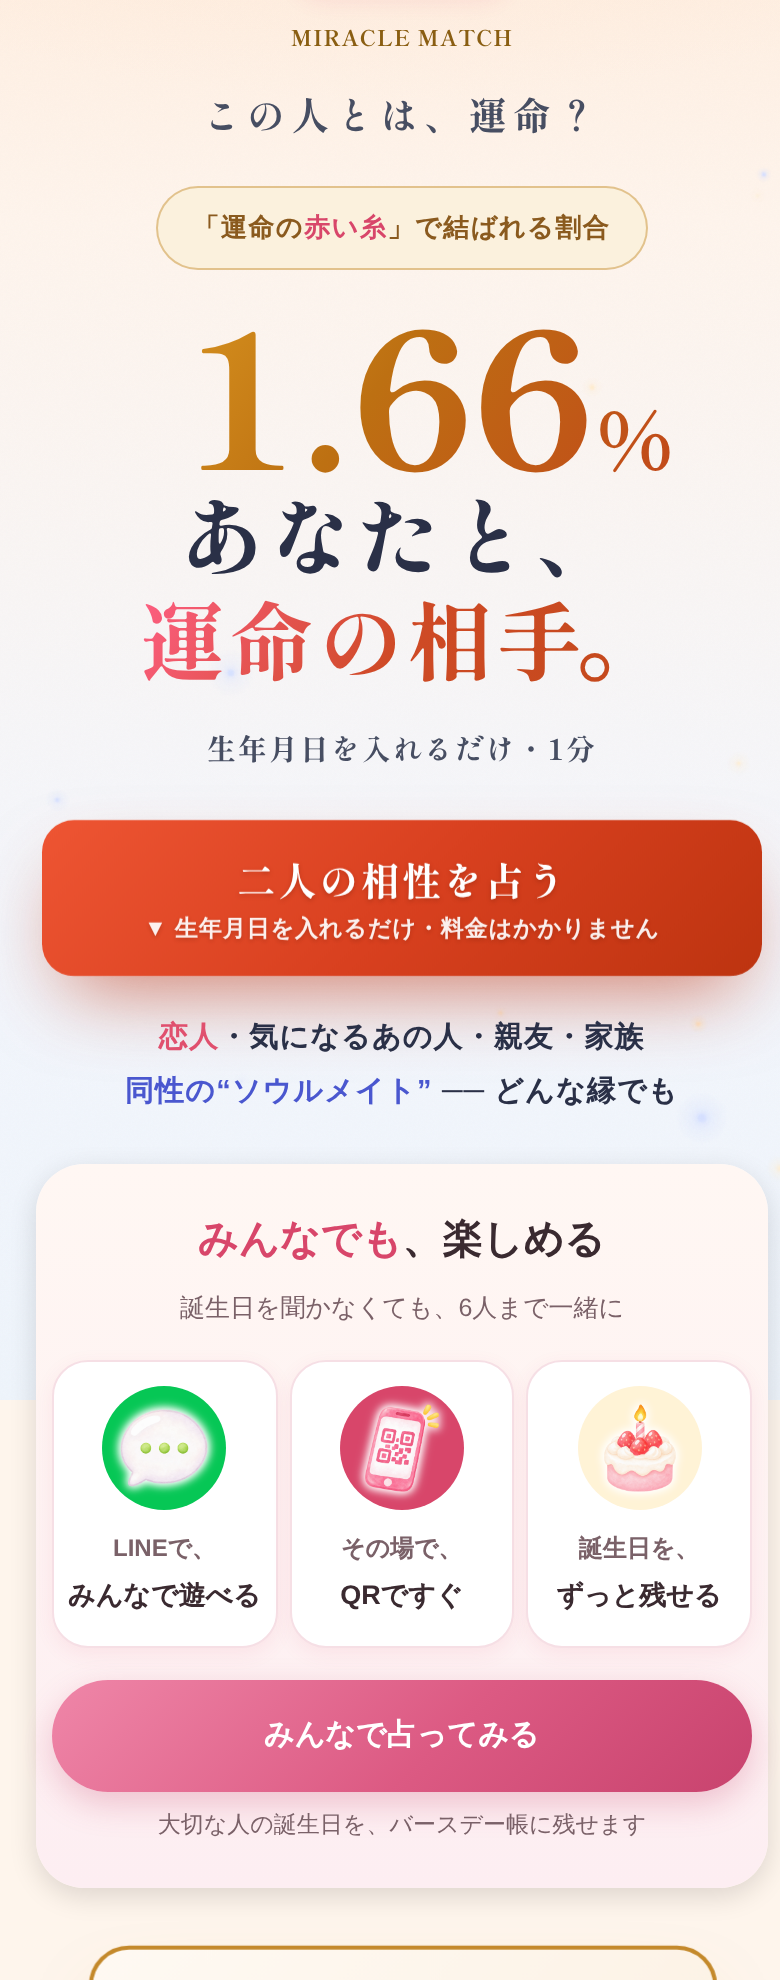
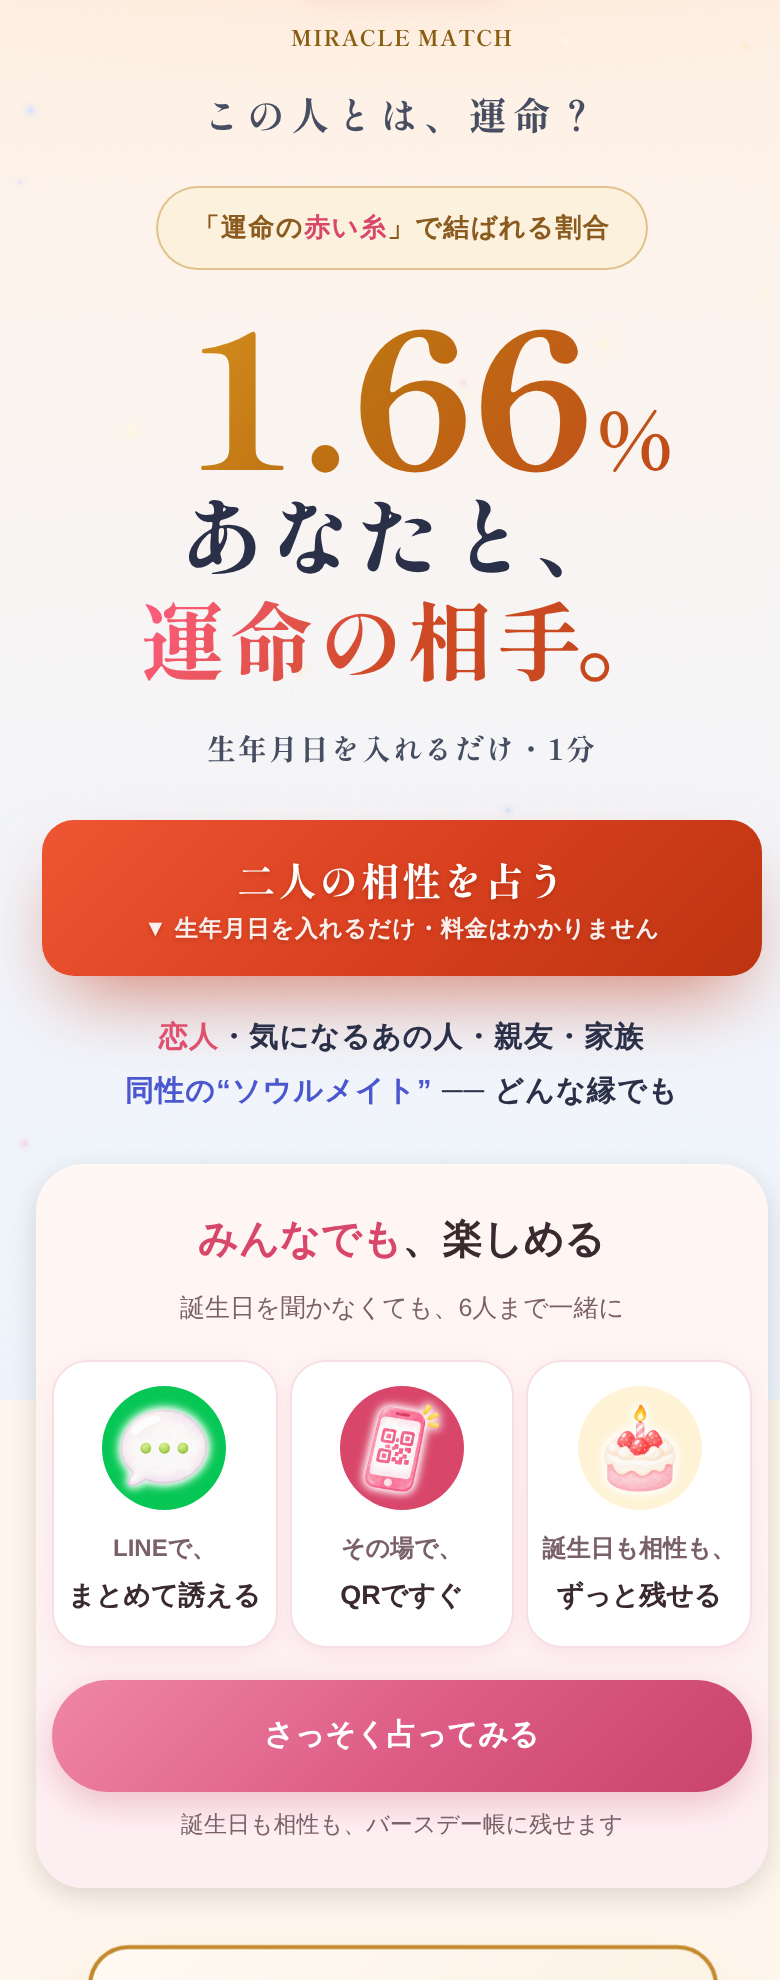
LPの3つのカード：「まとめて誘える」「さっそく占ってみる」に決定
Claude-Session: https://claude.ai/code/session_01VAAXUWaNn8kZjmChCXNaq8

diff --git a/docs/みんなの相性表_決まったこと.md b/docs/みんなの相性表_決まったこと.md
@@ -121,10 +121,10 @@
 - 枠は画面の横いっぱいに広げる（カードの文字がはみ出さないように。今の上の部分は横幅がせまいため）
 - 見出し「みんなでも、楽しめる」（「みんなでも」をピンク。「1.66は」はつけない）、小さく「誕生日を聞かなくても、6人まで一緒に」
 - カード（横に3枚。丸の中に絵1つ＋ことば2行）
-  - 吹き出し（LINEの緑の丸）：「LINEで、」「みんなで遊べる」
+  - 吹き出し（LINEの緑の丸）：「LINEで、」「まとめて誘える」（11/17 「みんなで遊べる」から変更。「みんな」が多すぎるため）
   - QRのスマホ（ピンクの丸）：「その場で、」「QRですぐ」
   - ケーキ（クリーム色の丸）：「誕生日も相性も、」「ずっと残せる」（11/17 「誕生日を、」から変更）
-- ボタン「みんなで占ってみる」（サイトのピンク）、その下に小さく「誕生日も相性も、バースデー帳に残せます」（11/17 「大切な人の誕生日を、」から変更）
+- ボタン「さっそく占ってみる」（サイトのピンク。11/17 「みんなで占ってみる」から変更。「みんな」は見出しの1回だけ）、その下に小さく「誕生日も相性も、バースデー帳に残せます」（11/17 「大切な人の誕生日を、」から変更）
 - 見本：みんなの相性表_アイコン/見本_LPの3つのカード_決定.png
 
 ## 保存したいときの登録（11/17 オーナー決定）
